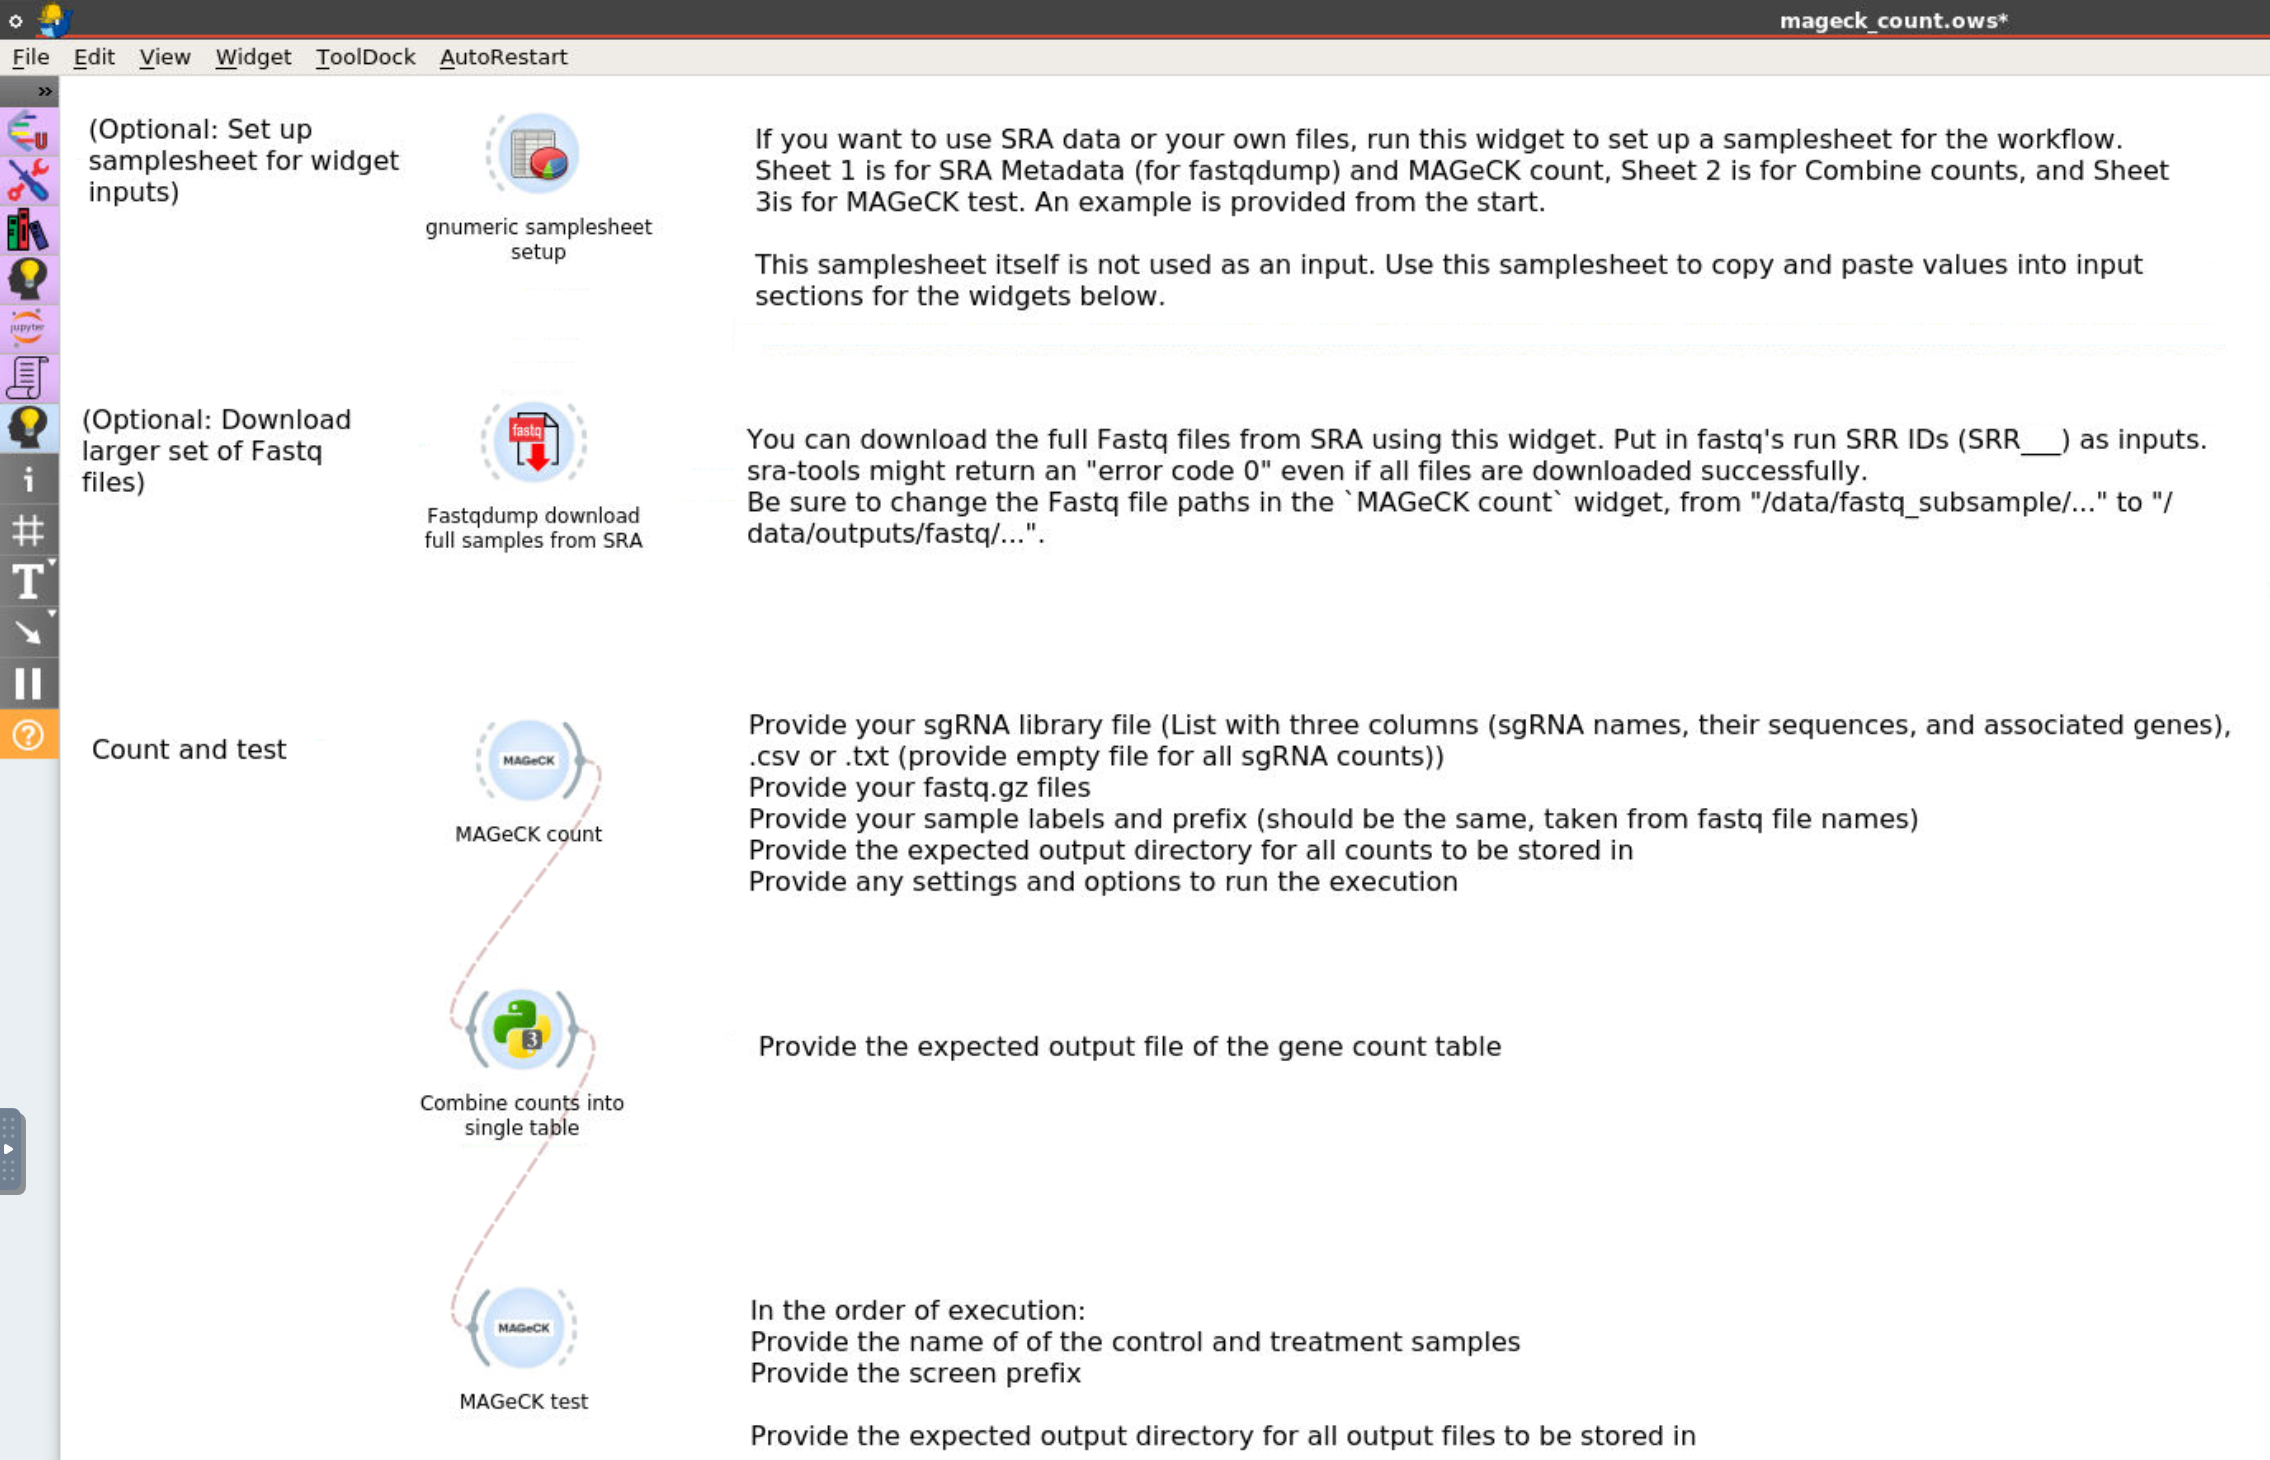
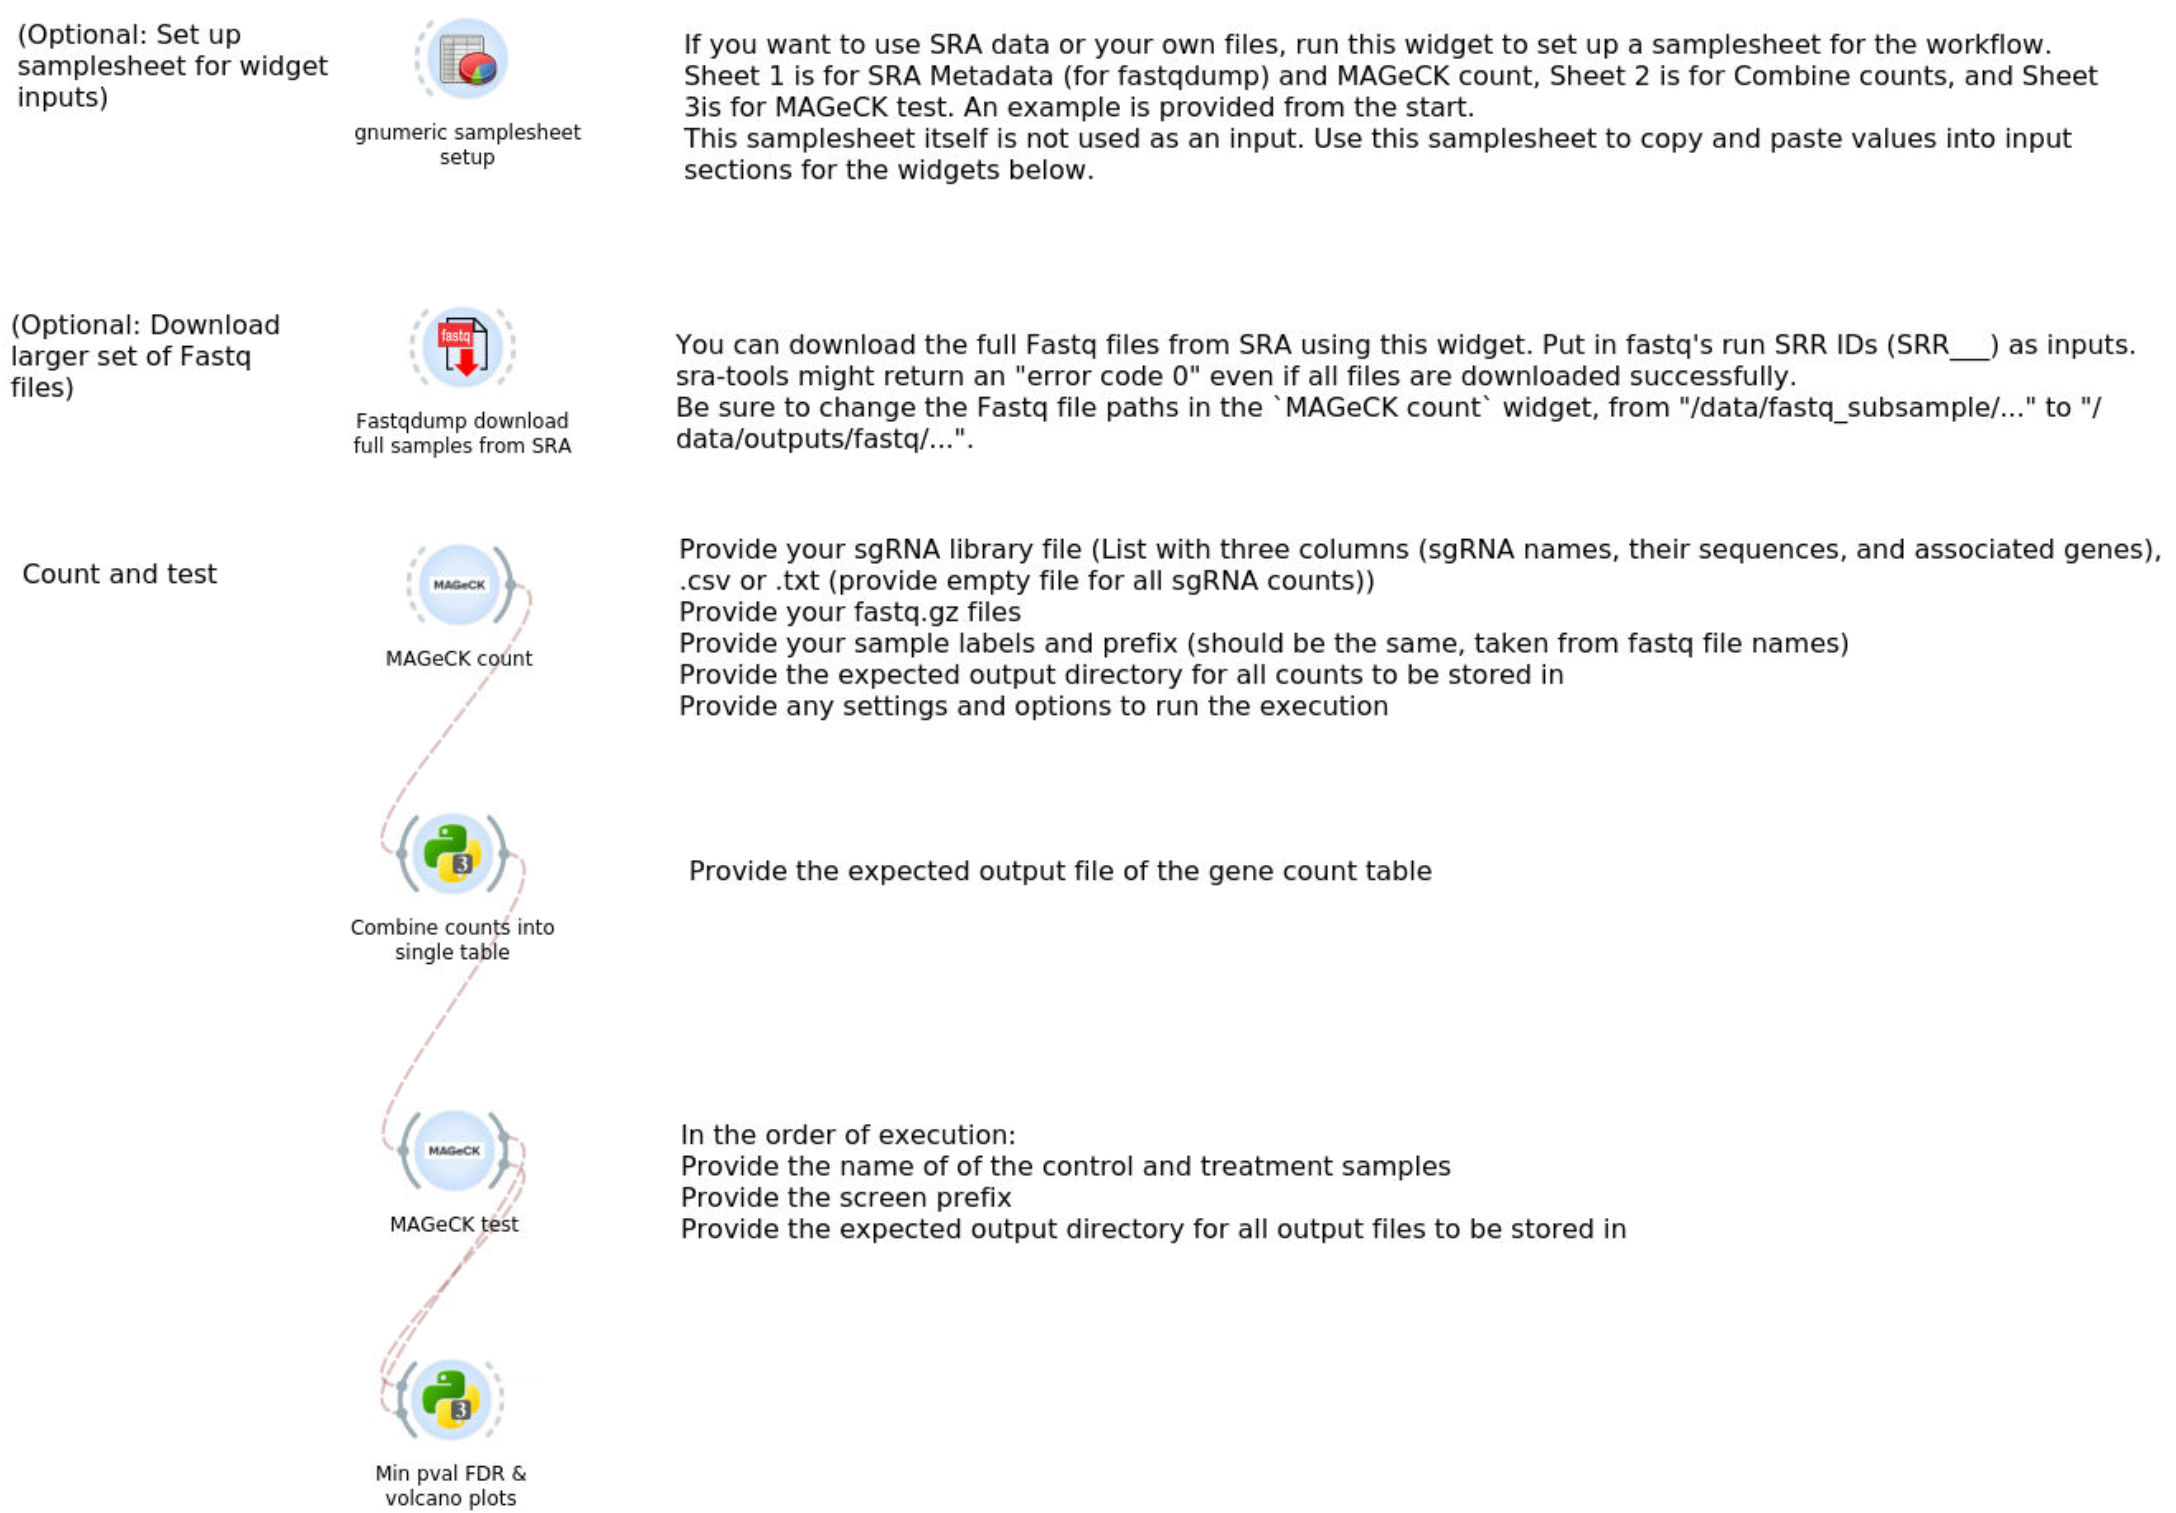
Update readme with summary stats and min values details

diff --git a/README.md b/README.md
@@ -4,7 +4,7 @@
 
 ## Overview
 
-This repository contains a [Biodepot-workflow-builder (Bwb)](https://github.com/BioDepot/BioDepot-workflow-builder) workflow to run `MAGeCK count` and a Jupyter Notebook for comparing the outputs of gene count table between samples from MSK (original data providers) and Bwb (reprocessed from the workflow). After obtaining counts, `MAGeCK test` executes gene rankings for provided screens.
+This repository contains a [Biodepot-workflow-builder (Bwb)](https://github.com/BioDepot/BioDepot-workflow-builder) workflow to run `MAGeCK count` and a Jupyter Notebook for comparing the outputs of gene count table between samples from MSK (original data providers) and Bwb (reprocessed from the workflow). After obtaining counts, `MAGeCK test` executes gene rankings for provided screens. The final step takes `MAGeCK test` gene ranking outputs for each screen and get their minimum p-values and minimum FDR values, as well as create volcano plots from these minimum values.
 
 ## Workflow
 
@@ -12,13 +12,11 @@ This repository contains a [Biodepot-workflow-builder (Bwb)](https://github.com/
 
 **MAGeCK Count**: This step involves running the MAGeCK count tool (version 0.5.9.5) to quantify gRNA abundance from sequencing data. Main command is `mageck count`. Inputs are fastq files, outputs are gene count tables for each fastq file.
 
-**Combine counts**: Combine counts obtained from `mageck count` into a single count table. Gene counts are summed based on their sample, if multiple fastq files are used for each sample.
+**Combine counts**: Combine counts obtained from `mageck count` into a single count table. Gene counts are summed based on their sample, if multiple fastq files are used for each sample. Summary statistics from `mageck count`, originally from each fastq file, are summarized for each sample.
 
 **MAGeCK test**: Use the count table to get sgRNA and gene rankings.
 
-## Count Comparison Analysis
-
-**CompareCounts.ipynb**: A Jupyter Notebook is provided to compare the gRNA counts between the original MSK data and the reprocessed Bwb data.
+**Minimum p-value FDR and volcano plots**: Take `mageck test` gene ranking outputs for each screen/prefix and extract the minimum p-values and minimum FDR values. Outputs are sorted and exported to separate text files. Includes the option to create plotly volcano plots from minimum p-values & FDR outputs for each screen/prefix.
 
 ## Included test data
 
@@ -36,7 +34,7 @@ The workflow uses 1_E8_T0, 2_NE_GFP_high, 3_NE_GFP_low, and 7_E8_control samples
 - Python 3.x
     - Pandas
     - NumPy
-- Jupyter Notebook
+- Docker
 
 ## References
 
